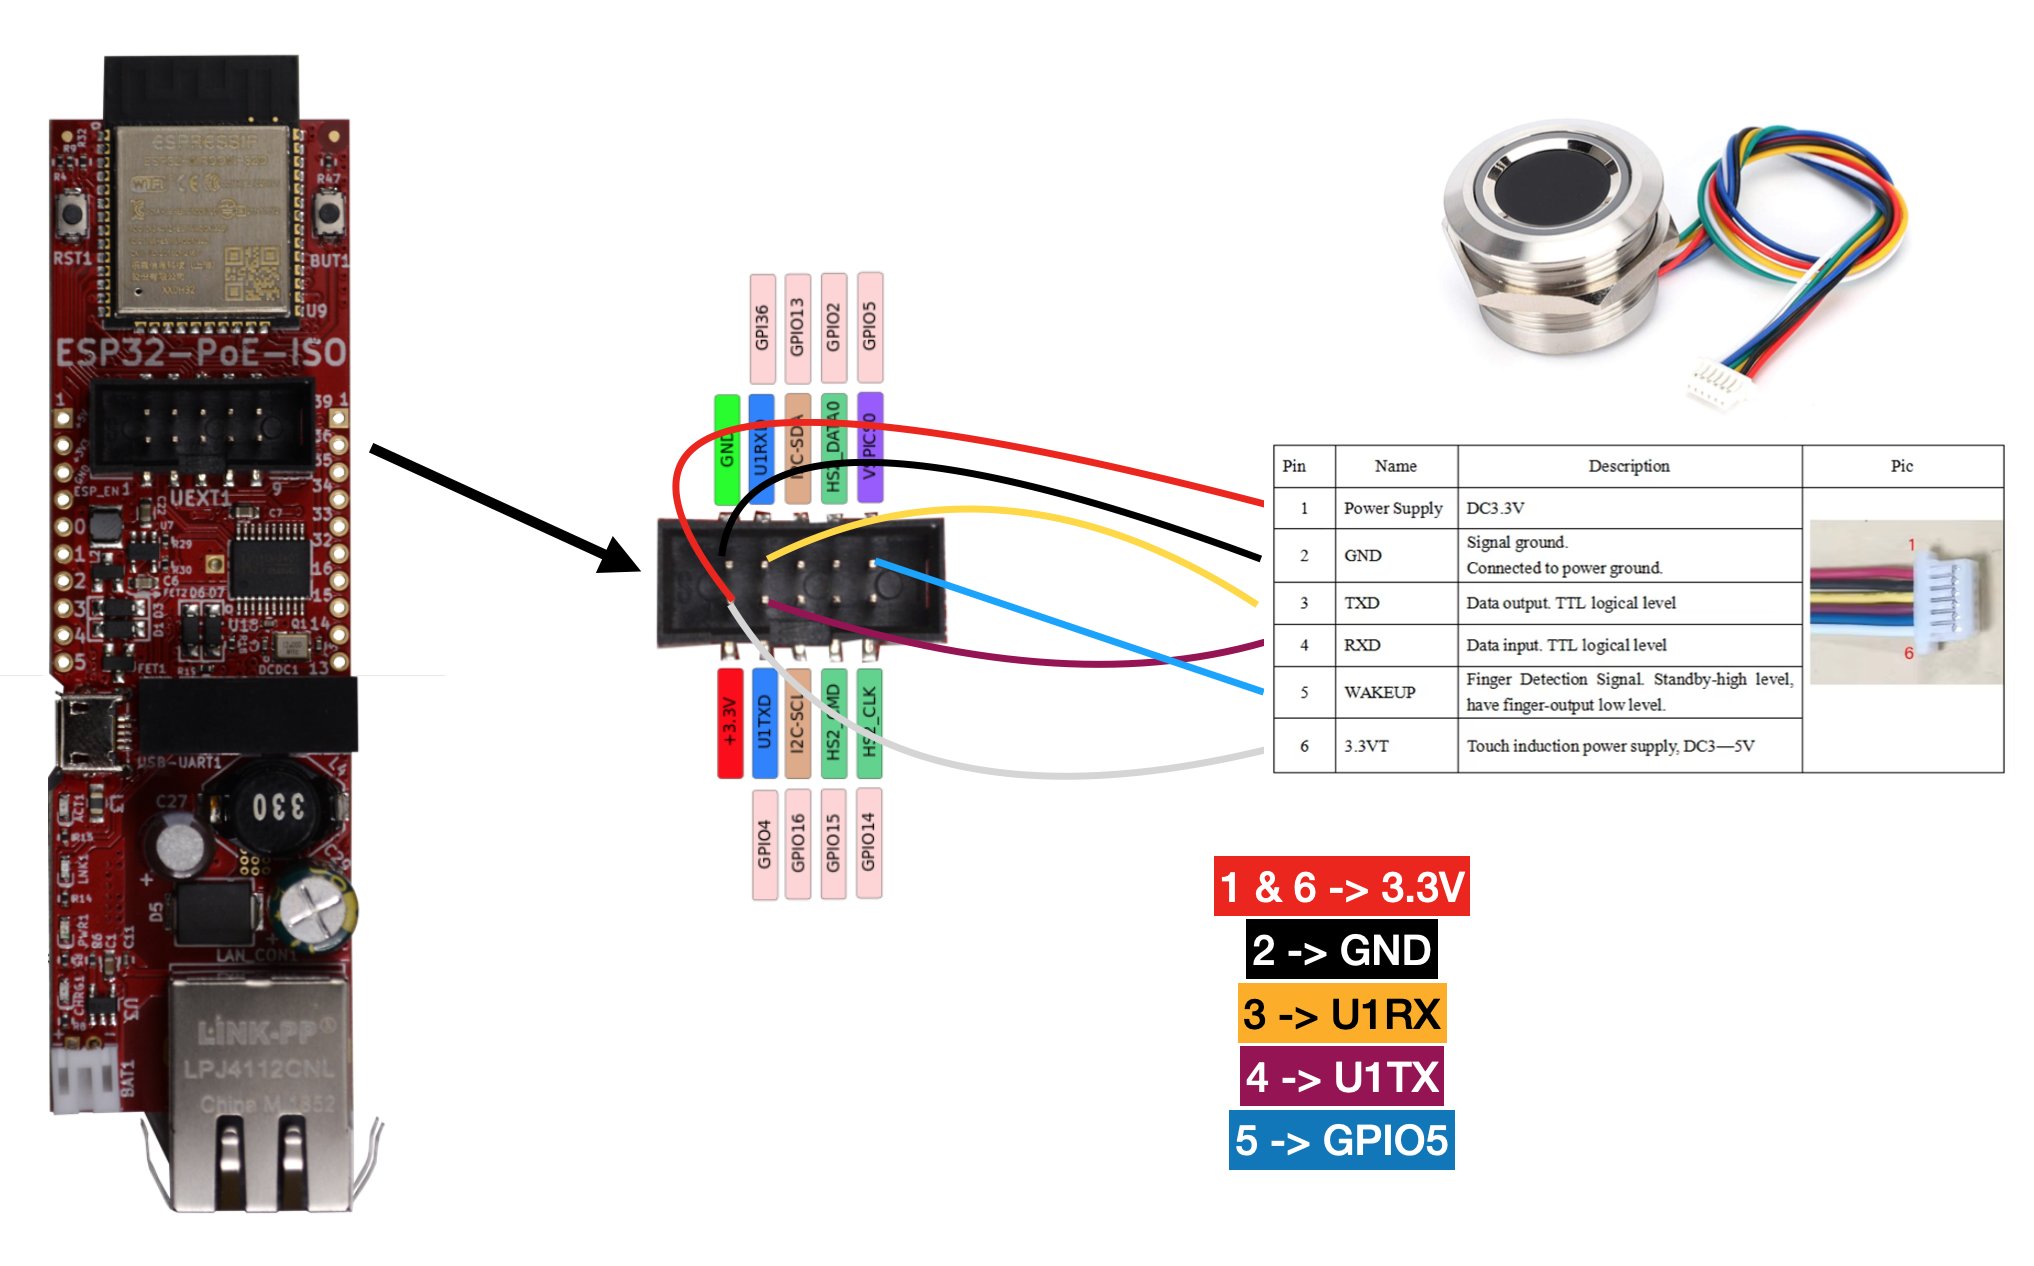
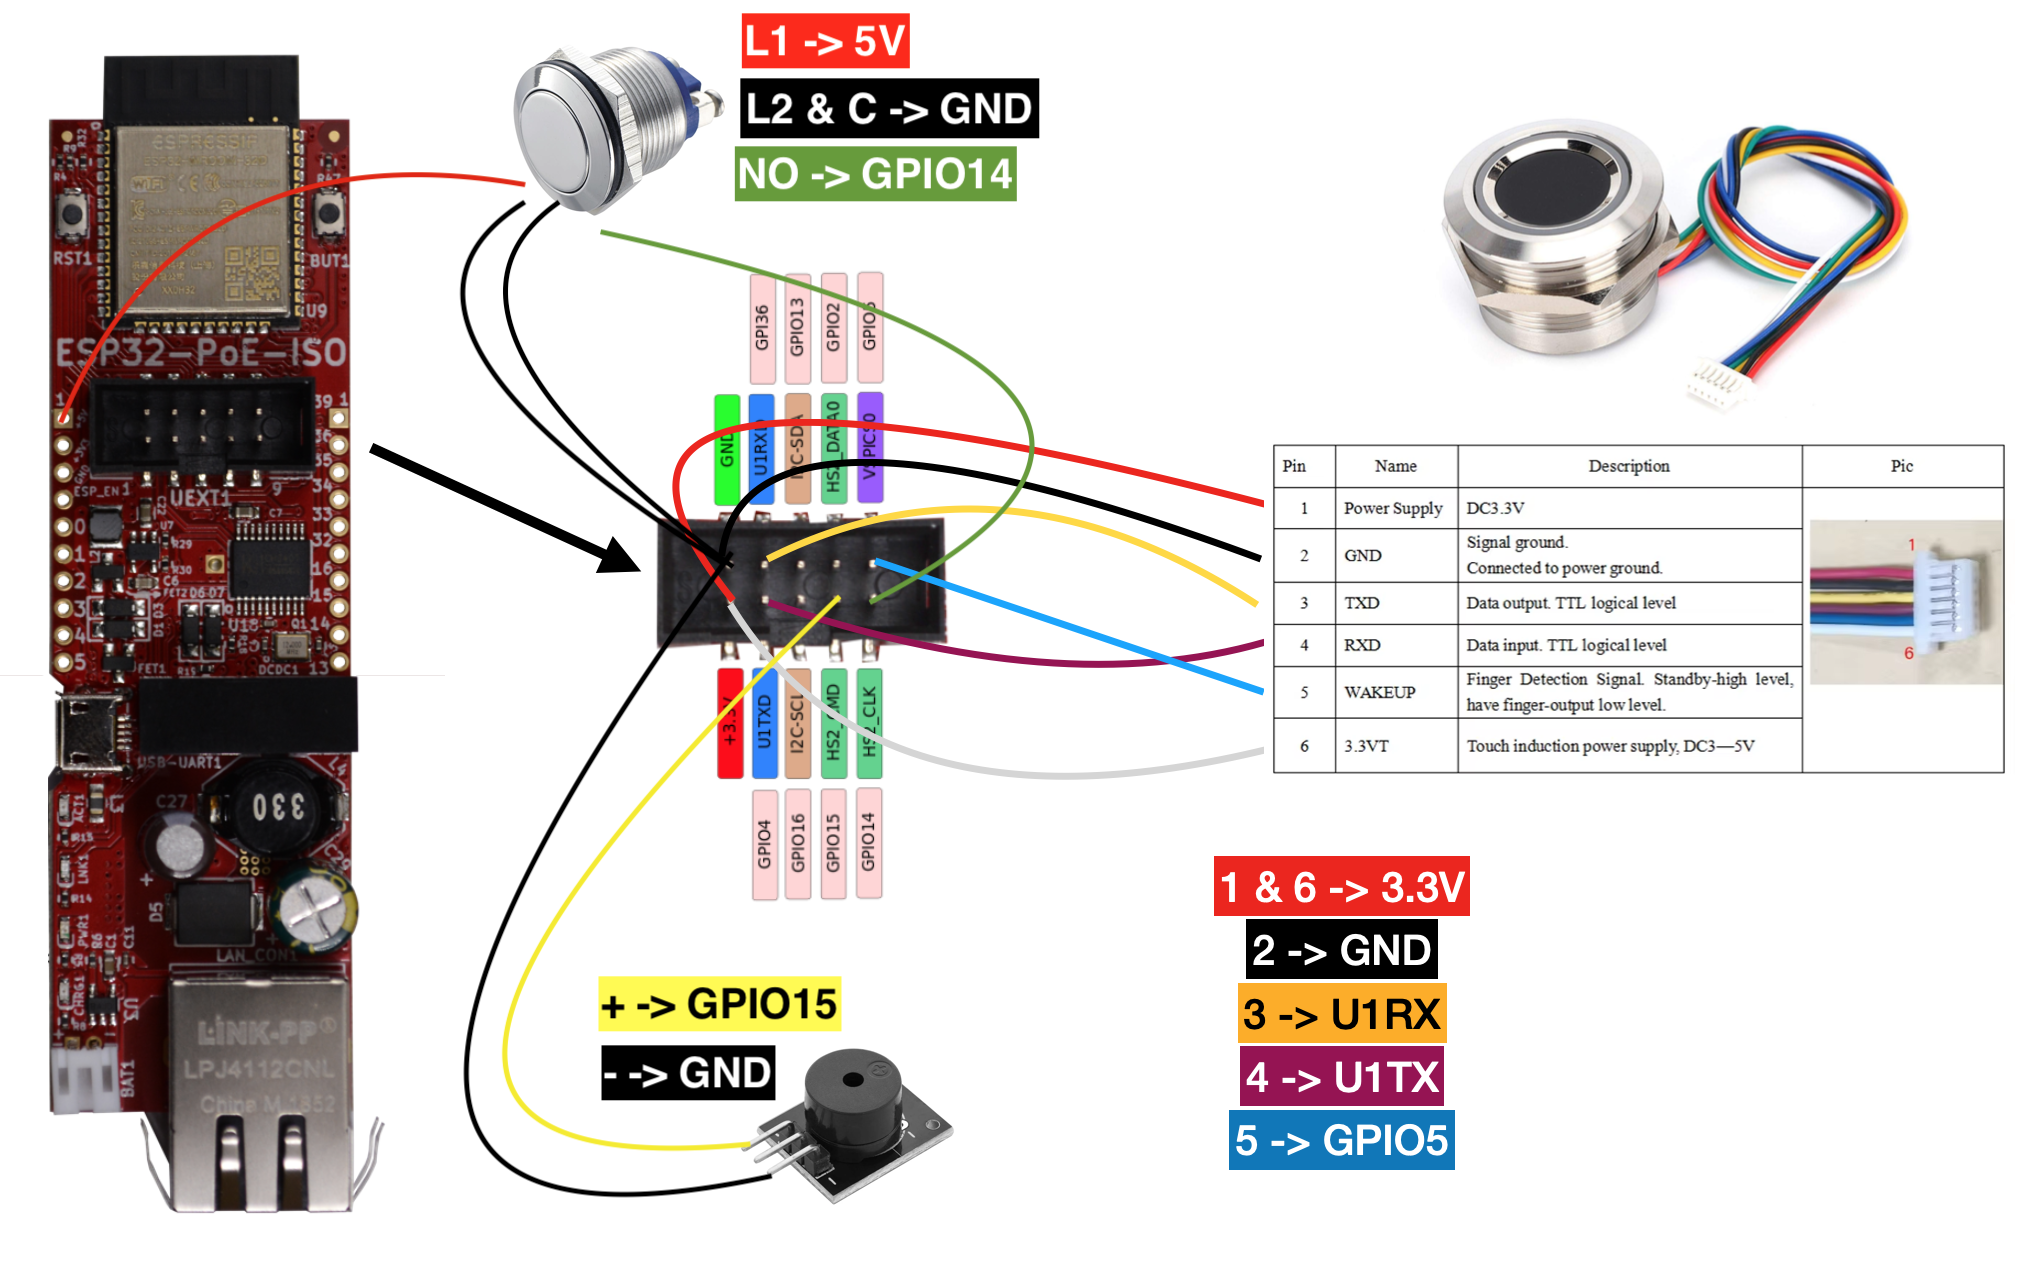
add small buzzer

diff --git a/src/main.cpp b/src/main.cpp
@@ -23,6 +23,8 @@ const int   daylightOffset_sec = 0; // UTC Time
 const int doorbellPin = 14; // doorbell button
 bool doorbellPressed = false;
 
+const int buzzerPin = 15; // buzzer when the doorbell button is pressed
+
 const int logMessagesCount = 5;
 String logMessages[logMessagesCount]; // log messages, 0=most recent log message
 bool shouldReboot = false;
@@ -531,6 +533,11 @@ void setup()
 
   // initialize GPIOs
   pinMode(doorbellPin, INPUT_PULLUP);
+  pinMode(buzzerPin, OUTPUT);
+  Serial.print("Doorbell button pin: ");
+  Serial.println(doorbellPin);
+  Serial.print("Buzzer pin: ");
+  Serial.println(buzzerPin);
 
   settingsManager.loadAppSettings();
 
@@ -567,6 +574,9 @@ void setup()
   else
     fingerManager.setLedRingError();
   
+  tone(buzzerPin, 200, 500);
+  tone(buzzerPin, 300, 500);
+  tone(buzzerPin, 400, 500);
 }
 
 void loop()
@@ -616,14 +626,18 @@ void loop()
   bool doorbellCurrentlyPressed;
   doorbellCurrentlyPressed = (digitalRead(doorbellPin) == LOW);
 
-  String mqttRootTopic = settingsManager.getAppSettings().mqttRootTopic;
   if (doorbellCurrentlyPressed != doorbellPressed) {
-    Serial.print("doorbell pressed:");
-    Serial.println(doorbellCurrentlyPressed);
-    if (doorbellCurrentlyPressed)
-      mqttClient.publish((String(mqttRootTopic) + "/ring").c_str(), "on");      
-    else
+    String mqttRootTopic = settingsManager.getAppSettings().mqttRootTopic;
+    //Serial.print("doorbell pressed:");
+    //Serial.println(doorbellCurrentlyPressed);
+    if (doorbellCurrentlyPressed) {
+      mqttClient.publish((String(mqttRootTopic) + "/ring").c_str(), "on");
+      tone(buzzerPin, 200);      
+    }
+    else {
+      noTone(buzzerPin);
       mqttClient.publish((String(mqttRootTopic) + "/ring").c_str(), "off");      
+    }
   }
 
   doorbellPressed = doorbellCurrentlyPressed;

diff --git a/src/FingerprintManager.cpp b/src/FingerprintManager.cpp
@@ -7,6 +7,8 @@ bool FingerprintManager::connect() {
   
     // initialize input pins
     pinMode(touchRingPin, INPUT_PULLDOWN);
+    Serial.print("TouchRing pin: ");
+    Serial.println(touchRingPin);
 
     Serial.println("\n\nAdafruit finger detect test");
 

diff --git a/README.md b/README.md
@@ -16,8 +16,12 @@ For more information, take a look at the [original README](https://github.com/fr
 
 ![Wiring](images/wiring.png)
 
-For the external ringer button I used:
-L1 -> 5.5V
+For the external doorbell button I used:
+L1 -> 5V
 L2 -> GND
 C -> GND
 NO -> GPIO14
+
+External buzzer (buzzes while doorbell button is pressed):
++ -> GPIO15
+- -> GND
